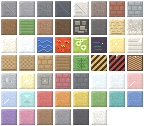
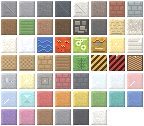
素材 油改成琥珀燃料色（原来是近黑原油）
用户问「这是汽油还是石油」——这一问戳中了：我上一版画的是原油（深棕近黑），
但游戏里这块方块的职责是「可燃液体」，暗色块在暗场景里会消失，玩家会以为是个洞。

真实的油分很多种：原油深棕近黑、汽油几乎无色、灯油/柴油琥珀金、机油橄榄色。
按「可燃液体」这个用途取灯油那种琥珀金：一眼看得出能烧，又和水（蓝）、
酸（绿）、岩浆（红）都不撞。

tools/oil_variants.py 把三种配色并排画出来对照（左边放了水/岩浆/酸），
换回原油只需改 KINDS 里 oil 那一行的颜色。

Changed region(s): [[0.6111, 0.2857, 0.75, 0.4286]]

diff --git a/tools/oil_variants.py b/tools/oil_variants.py
@@ -1,0 +1,95 @@
+#!/usr/bin/env python3
+# -*- coding: utf-8 -*-
+"""
+「油」的三种可能，放在水和岩浆旁边对比。
+
+同一块方块，三种油在游戏里的读法完全不同：
+    琥珀燃料 → 一眼看出「可燃液体」，和金黄的沙、橙红的岩浆都不撞；
+    深棕原油 → 写实，但在暗场景里和板岩/泥/灰混在一起；
+    橄榄机油 → 介于两者之间，偏「工业」，但容易和叶、酸混。
+"""
+
+import math
+import os
+from PIL import Image
+
+import build_paper_atlas as P
+
+T, SCALE = P.TILE, 8
+
+
+def oil_tile(base, sheen, dark, name):
+    """通用的油：液体底 + 油膜反光 + 液面折痕。"""
+    img = Image.new("RGBA", (T, T), (0, 0, 0, 0))
+    p = img.load()
+    for y in range(T):
+        for x in range(T):
+            k = 0.84 + 0.20 * P.hnoise(x // 2, y // 2, 41) + (0.08 if y < T / 3 else 0)
+            p[x, y] = P.sh(base, k, 240)
+
+    # 油膜：紫、绿、金三段反光，是「油」区别于「果汁」的关键
+    for i, (y, col) in enumerate(((5, sheen[0]), (8, sheen[1]), (11, sheen[2]))):
+        for x in range(2 + i, min(T - 2, 10 + i)):
+            P.pen(p, x, y, col, 1.0, 225)
+
+    # 暗部沉淀，别是一块平色
+    for x in range(2, T - 2):
+        P.pen(p, x, T - 2, dark, 1.0, 240)
+
+    # 液面折痕
+    for x in range(2, T - 2):
+        y = 3 + int(round(math.sin(x * 0.8) * 0.9))
+        P.pen(p, x, y, base, 1.28, 240)
+        P.pen(p, x, y + 1, dark, 0.9, 240)
+
+    return img
+
+
+VARIANTS = [
+    ("fuel_amber",  "琥珀燃料（推荐）", (196, 148, 62), ((120, 84, 160), (86, 150, 120), (255, 214, 130)), (110, 78, 34)),
+    ("crude",       "深棕原油",       (74, 56, 44),   ((92, 72, 130), (60, 104, 92), (150, 118, 86)),  (38, 28, 24)),
+    ("machine_oil", "橄榄机油",       (128, 126, 74), ((96, 84, 150), (74, 140, 110), (208, 200, 120)), (74, 72, 40)),
+]
+
+CONTEXT = [("水", P.KINDS[18]), ("岩浆", P.KINDS[19]), ("酸", P.KINDS[20])]
+
+
+def main():
+    root = os.path.dirname(os.path.dirname(os.path.abspath(__file__)))
+    rows = len(VARIANTS)
+    cols = len(CONTEXT) + 1
+    pad, gap = 10, 8
+    cell = T * SCALE
+    label_w = 132                      # 左边一列留给风格名，之前没留，整行都错位了
+    w = pad + label_w + cols * (cell + gap)
+    h = pad * 2 + 26 + rows * (cell + gap)
+    sheet = Image.new("RGB", (w, h), (24, 22, 26))
+
+    from PIL import ImageDraw, ImageFont
+    d = ImageDraw.Draw(sheet)
+    try:
+        font = ImageFont.truetype("C:/Windows/Fonts/msyh.ttc", 15)
+    except Exception:
+        font = ImageFont.load_default()
+
+    x0 = pad + label_w
+    for i, (cn, _k) in enumerate(CONTEXT):
+        d.text((x0 + i * (cell + gap) + 4, 6), cn, font=font, fill=(150, 158, 172))
+    d.text((x0 + len(CONTEXT) * (cell + gap) + 4, 6), "油（三选一）", font=font, fill=(214, 222, 236))
+
+    for r, (key, cn, base, sheen, dark) in enumerate(VARIANTS):
+        y = 26 + r * (cell + gap)
+        d.text((pad, y + cell // 2), cn, font=font, fill=(214, 222, 236))
+        for c, (_n, kind) in enumerate(CONTEXT):
+            img = P.make(kind).resize((cell, cell), Image.NEAREST)
+            sheet.paste(img, (x0 + c * (cell + gap), y), img)
+        oil = oil_tile(base, sheen, dark, key).resize((cell, cell), Image.NEAREST)
+        sheet.paste(oil, (x0 + len(CONTEXT) * (cell + gap), y), oil)
+
+    out = os.path.join(root, "Logs", "oil_variants.png")
+    sheet.save(out)
+    print("已生成", out, sheet.size)
+
+
+if __name__ == "__main__":
+    main()

diff --git a/tools/build_paper_atlas.py b/tools/build_paper_atlas.py
@@ -233,17 +233,30 @@ def m_lava(img, c):
 
 
 def m_oil(img, c):
-    """油：近黑的底 + 油膜虹彩（紫/绿细条）。黑的块在暗场景里容易消失，
-    所以靠那道虹彩反光把它「勾」出来。"""
+    """燃料油：琥珀金底 + 三段油膜反光 + 液面折痕。
+
+    原来画成近黑（想的是原油），但暗色块在暗场景里会消失，玩家会以为是个洞。
+    真实的「油」分很多种：原油深棕近黑、汽油几乎无色、灯油/柴油琥珀金。
+    这块方块在游戏里的作用是「可燃液体」，所以取灯油那种琥珀色 —— 一眼看得出能烧，
+    又和水（蓝）、酸（绿）、岩浆（红）都不撞。
+    """
     p = img.load()
     for y in range(TILE):
         for x in range(TILE):
-            p[x, y] = sh(c, 0.9 + 0.14 * hnoise(x, y, 41))
-    for i, y in enumerate((5, 9, 12)):
-        col = (96, 74, 140) if i % 2 == 0 else (58, 110, 96)
-        for x in range(2 + i, min(TILE - 2, 9 + i)):
-            pen(p, x, y, col, 1.0, 230)
-    pen(p, 11, 6, (210, 220, 240), 1.0, 200)
+            k = 0.84 + 0.20 * hnoise(x // 2, y // 2, 41) + (0.08 if y < TILE / 3 else 0)
+            p[x, y] = sh(c, k, 240)
+
+    # 油膜：紫、绿、金三段。这是「油」区别于果汁、蜂蜜的关键反光
+    for i, (y, col) in enumerate(((5, (120, 84, 160)), (8, (86, 150, 120)), (11, (255, 214, 130)))):
+        for x in range(2 + i, min(TILE - 2, 10 + i)):
+            pen(p, x, y, col, 1.0, 225)
+
+    for x in range(2, TILE - 2):                     # 底部沉淀
+        pen(p, x, TILE - 2, (110, 78, 34), 1.0, 240)
+    for x in range(2, TILE - 2):                     # 液面折痕
+        y = 3 + int(round(math.sin(x * 0.8) * 0.9))
+        pen(p, x, y, c, 1.28, 240)
+        pen(p, x, y + 1, (110, 78, 34), 0.9, 240)
 
 
 def m_acid(img, c):
@@ -409,7 +422,7 @@ KINDS = [
     ("water",        (46, 92, 186),    1.00, m_water,     205),
     ("lava",         (232, 84, 44),    1.00, m_lava,      248),
     ("acid",         (168, 202, 70),   1.00, m_acid,      218),
-    ("oil",          (62, 56, 72),     1.00, m_oil,       238),
+    ("oil",          (196, 148, 62),   1.00, m_oil,       238),
     ("glow",         (250, 224, 150),  1.04, motif_spark,  240),
     # 纸 / 木
     ("paper_kraft",  (232, 228, 218),  1.00, m_paper_stack, 255),
